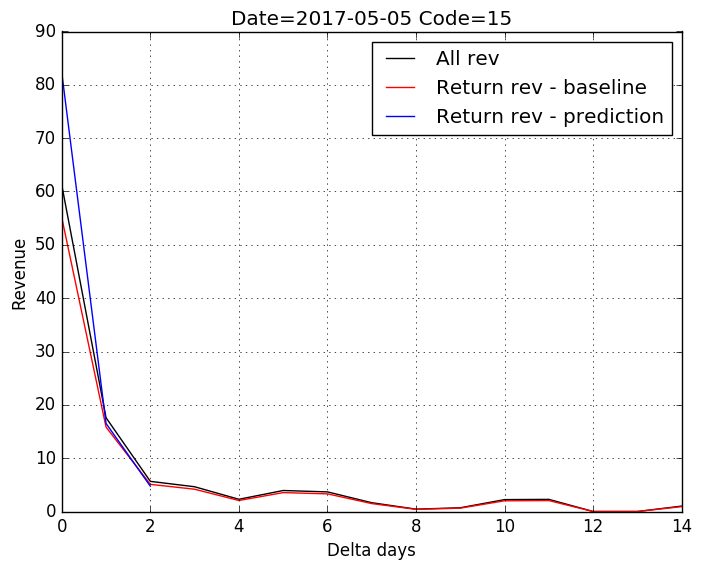
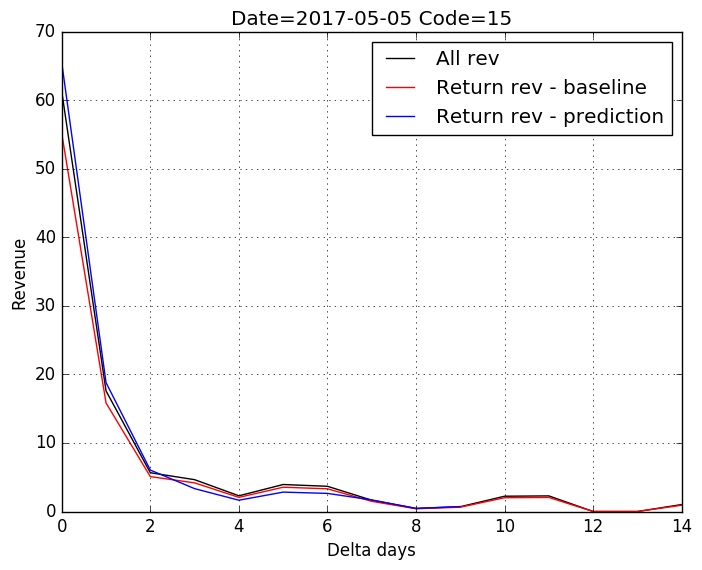
add file that parse data and create OLS and ridge model for it with all related output

diff --git a/create_model.py b/create_model.py
@@ -71,7 +71,26 @@ class LeadModel:
         pdIR['Rev'] = Sum_r
 
         # here possible processing over obtained impulse response
-        self.pdIR = pdIR
+        # remove raws where there are empy spaces within first N_f days
+        N_f = 5
+        debug = False
+        l = pdIR.shape[0]
+        thr_low = 0.1
+        idx_take = [True for i in range(l)]
+
+        for i in range(N_f):
+            idx_c = pdIR[i] > thr_low
+            idx_tmp = [x and y for x, y in zip(idx_c, idx_take)]
+            idx_take = idx_tmp
+        pdIR_cut = pdIR[idx_take]
+
+        if debug:
+            list_id = range(N_f)
+            list_id.append('Dates')
+            print pdIR_cut.loc[:, list_id]
+            raw_input()
+
+        self.pdIR = pdIR_cut
         test_df = self.create_features()
         return test_df
 
@@ -181,6 +200,7 @@ class LeadModel:
                           columns=['PredictReturn', 'ActualReturn', 'Diff', 'Date'])
 
         print df.head(100)
+        print 'Average prediction difference', np.mean(y_diff)
 
         # now we are ready to save Ridge results
         if doSave:

diff --git a/main.py b/main.py
@@ -8,7 +8,7 @@ from create_model import LeadModel
 # codes to set: 15, 260, 283, 235
 
 # set global params
-param_dict = {'code': 235, 'plot_raw': False, 'get_data': False, 'Thr_hist': [1, 2, 3], 'nu': 0.9, 'method': 'Hist',
+param_dict = {'code': 283, 'plot_raw': False, 'get_data': False, 'Thr_hist': [3, 7, 10], 'nu': 0.9, 'method': 'Hist',
               'numF_ir': 5}
 
 # obtain raw data from files if it is required
